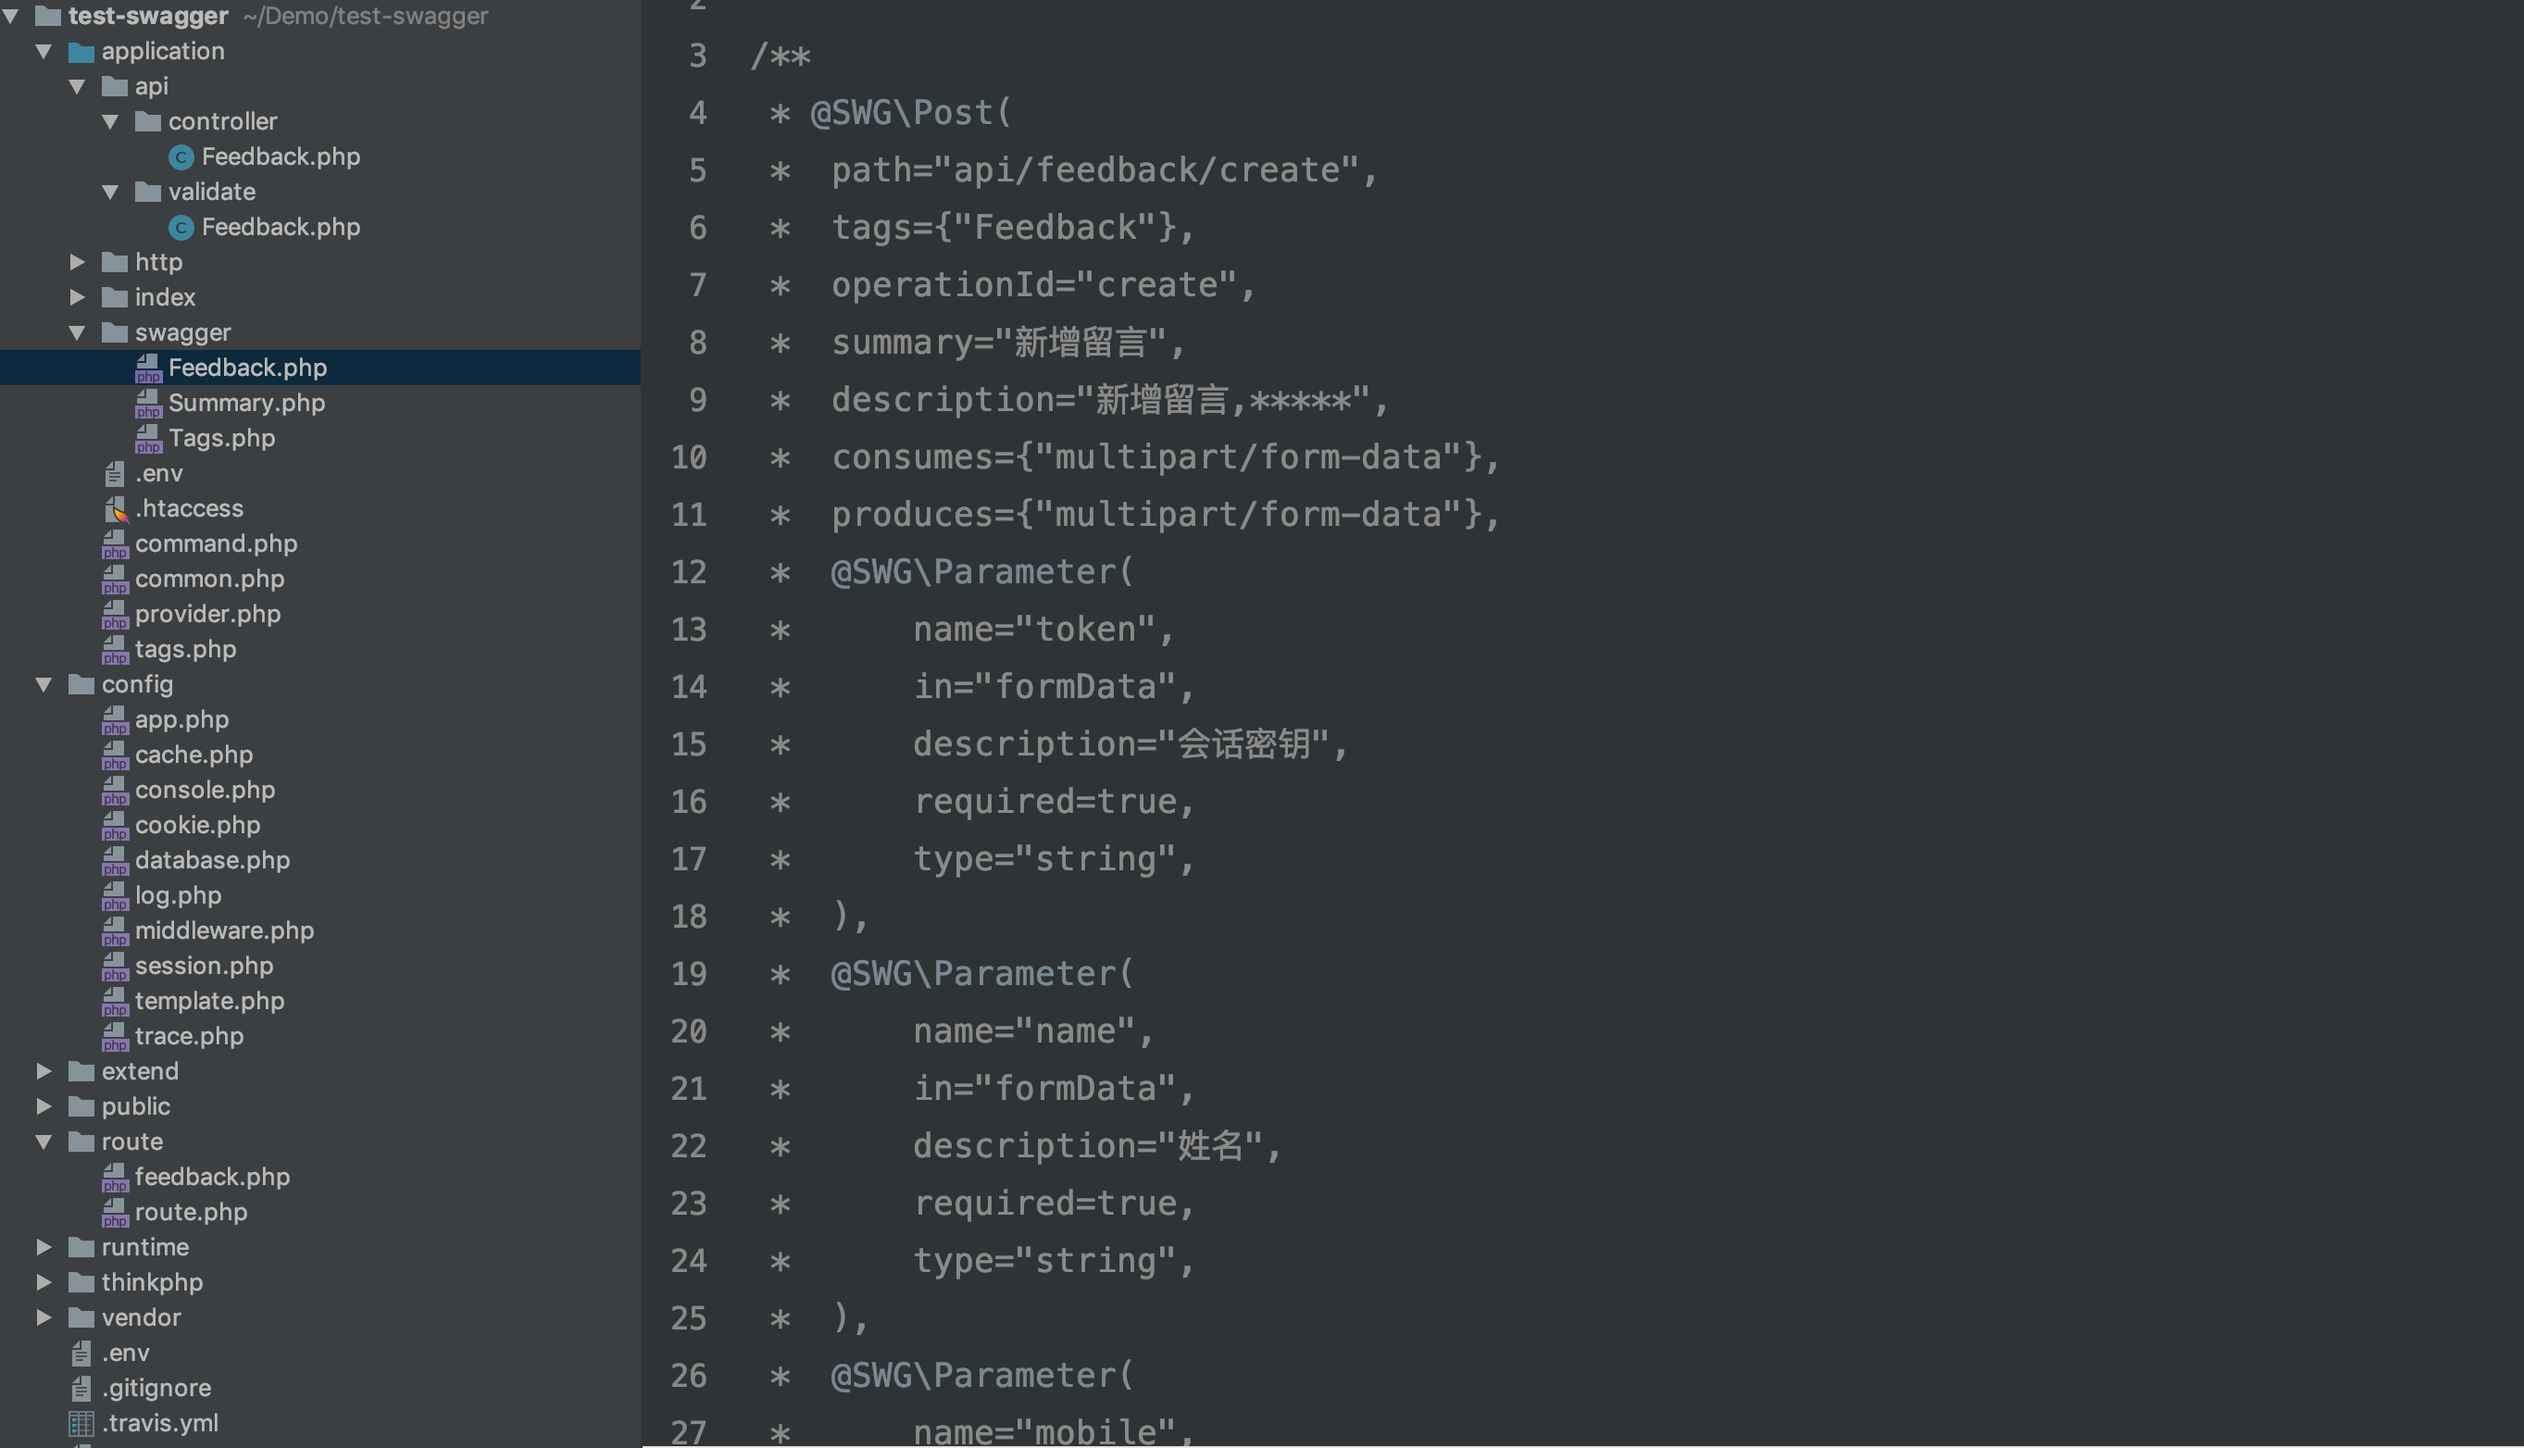
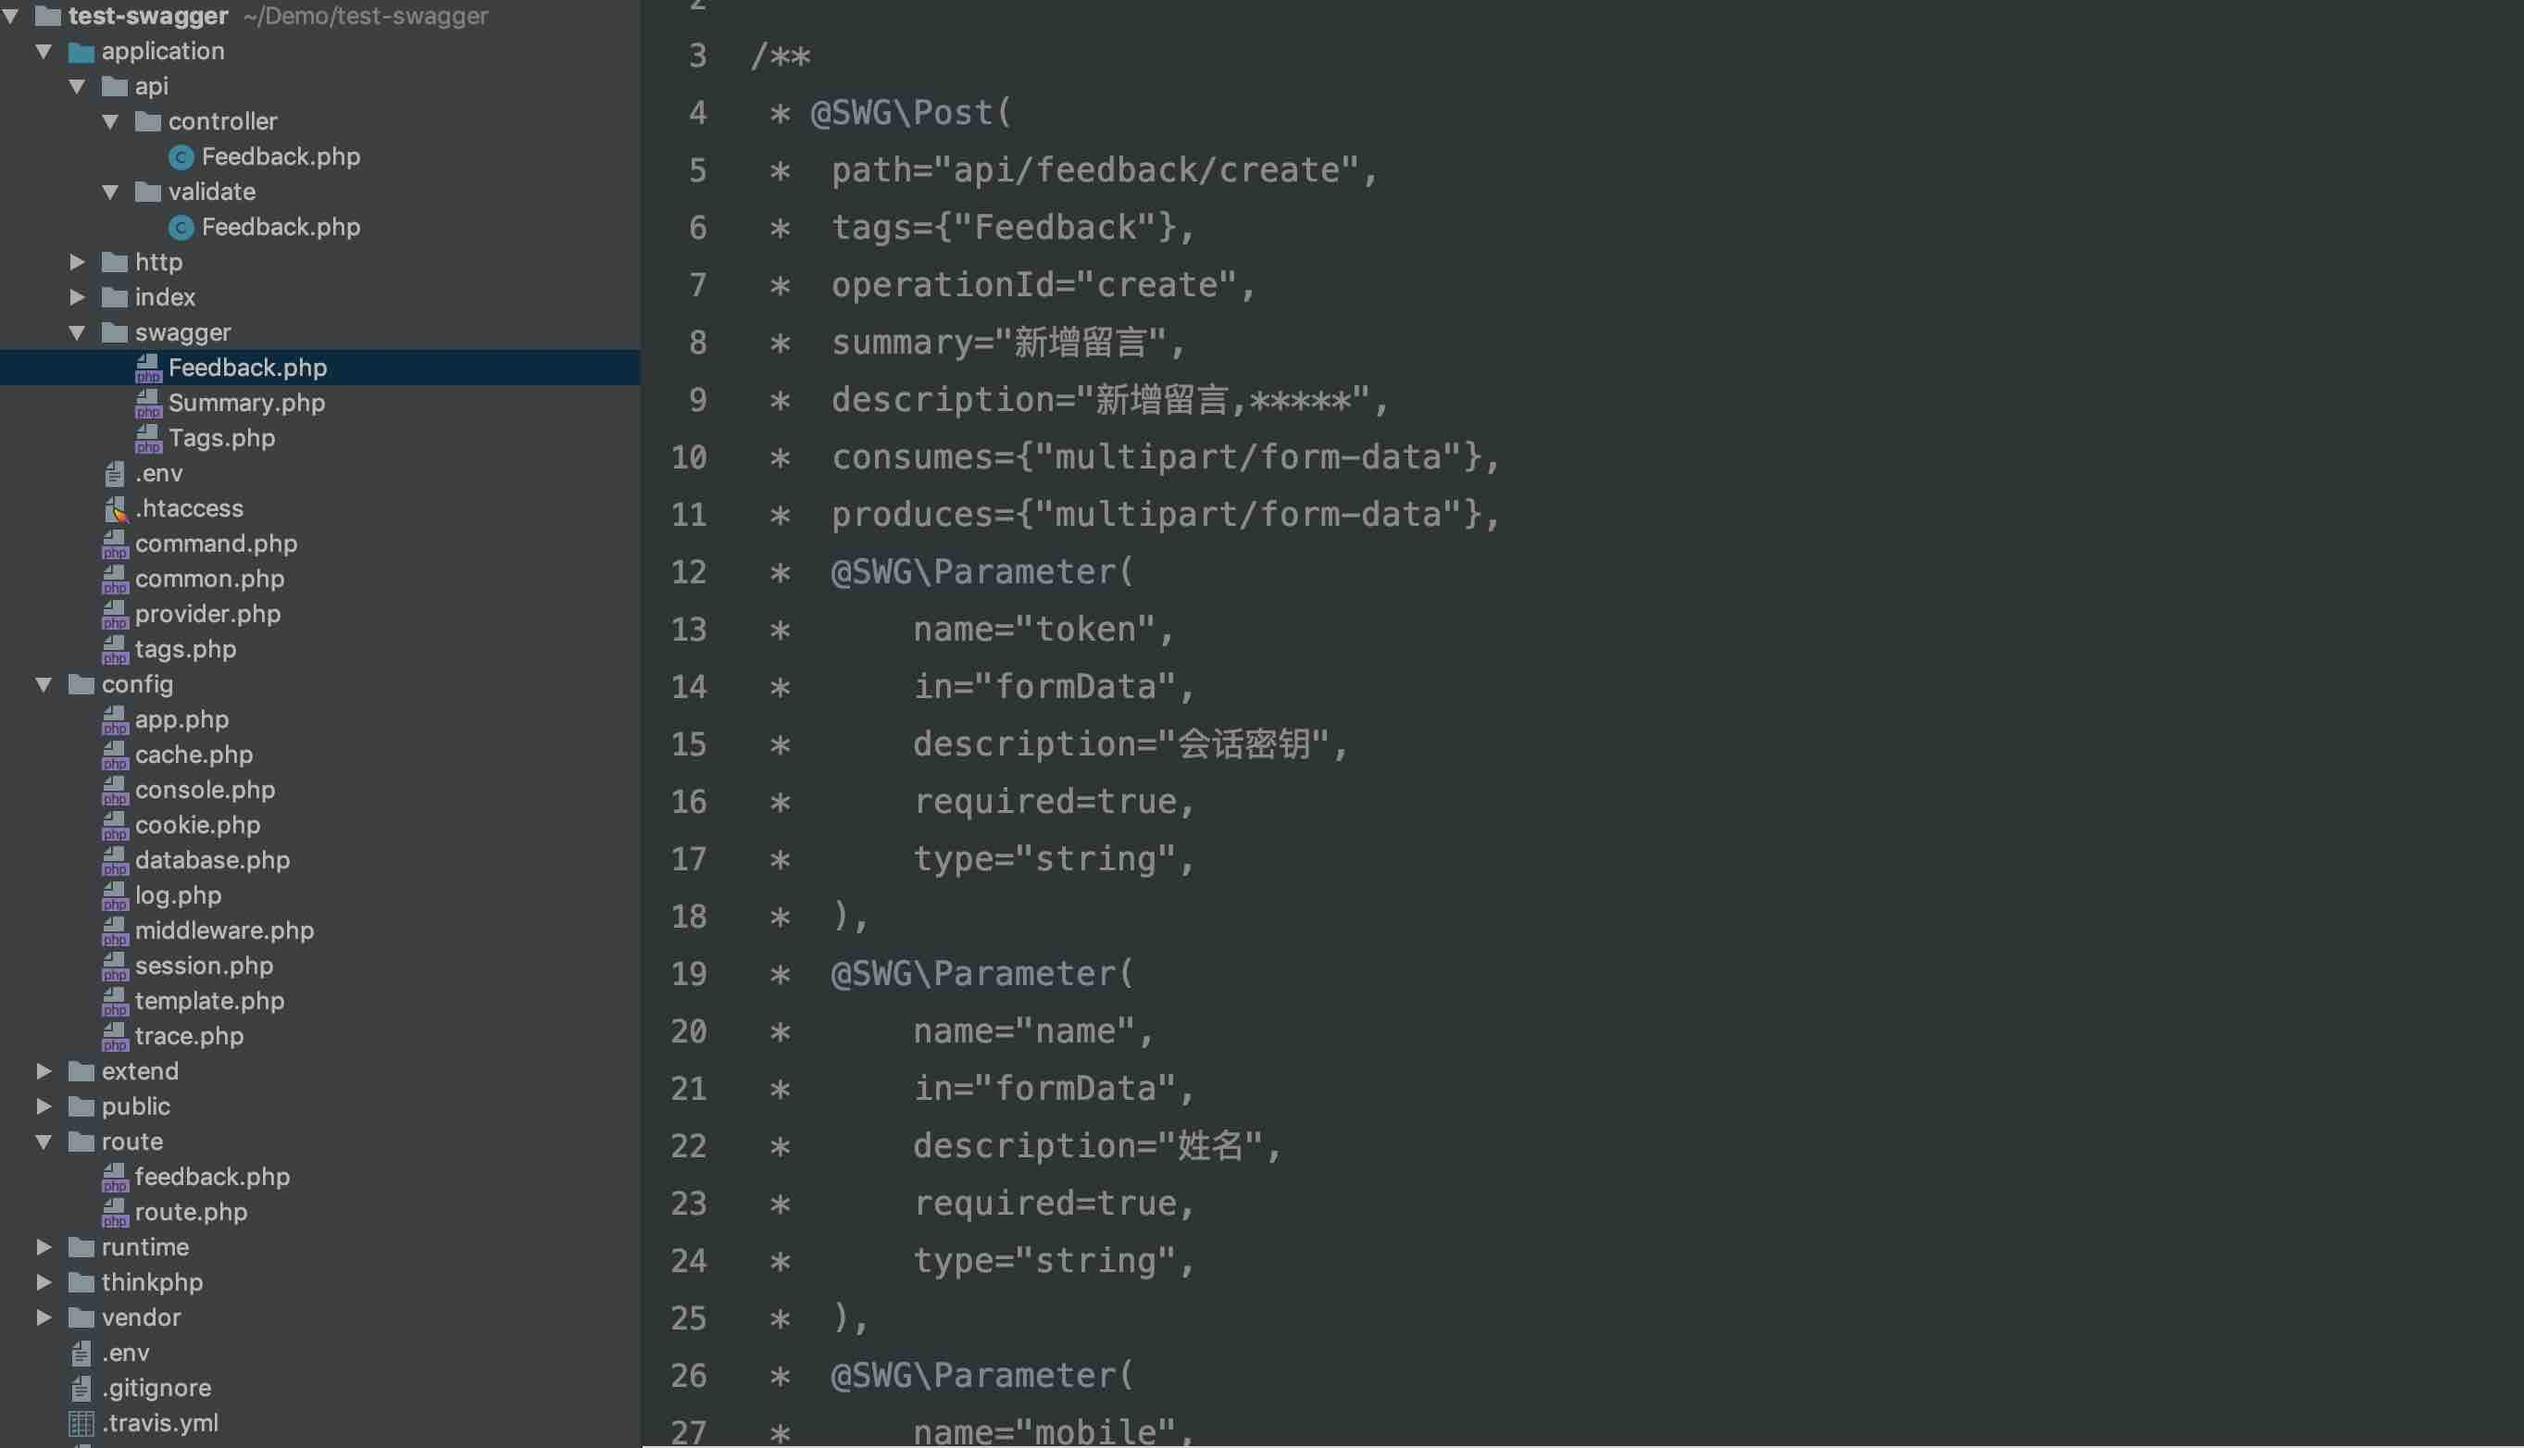
修改了图片大小

diff --git a/README.md b/README.md
@@ -210,15 +210,15 @@ swagger 注释文件 Tags.php
 
 网页效果图一 
 
-![avatar](./ui/images/all.png)
+![avatar](./ui/images/all.jpg)
 
 网页效果图二
 
-![avatar](./ui/images/post.png)
+![avatar](./ui/images/post.jpg)
 
 网页效果图三
 
-![avatar](./ui/images/put.png)
+![avatar](./ui/images/put.jpg)
 
 
 ## License
